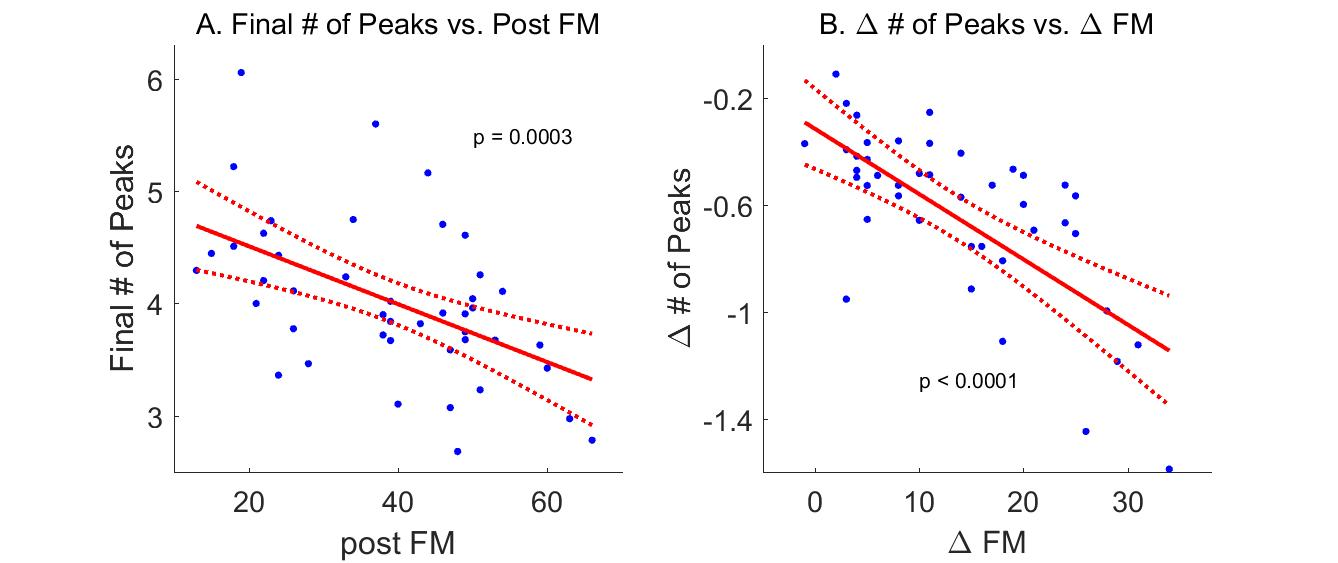
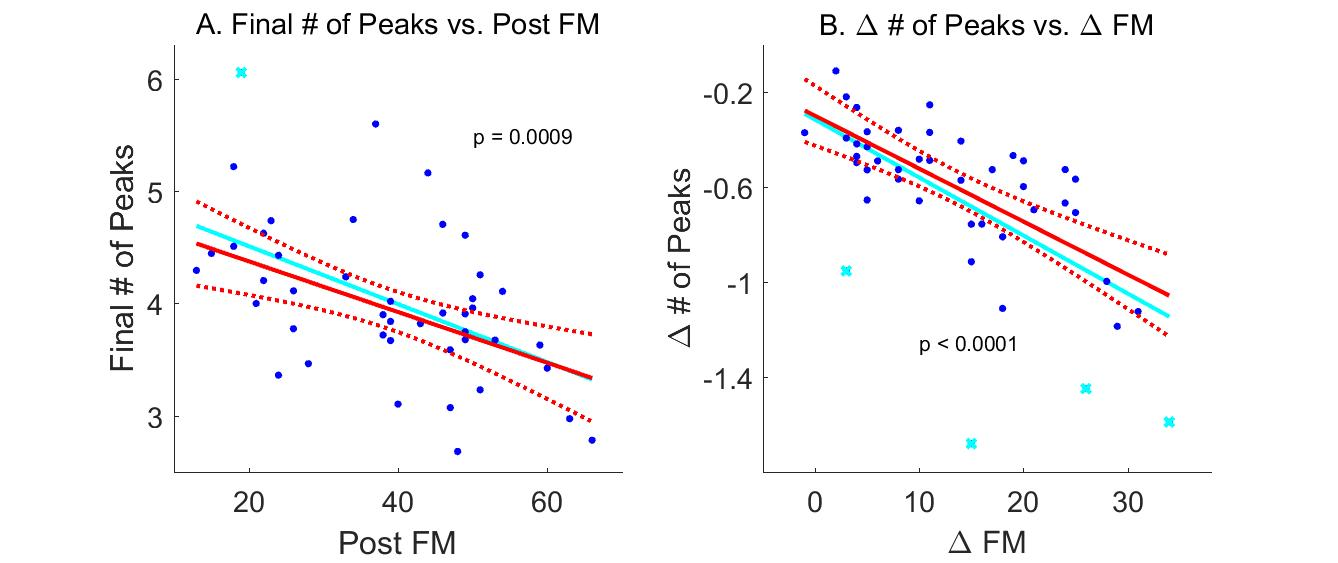
results half done

diff --git a/tex/ArmeoSpring.tex b/tex/ArmeoSpring.tex
@@ -104,6 +104,7 @@ For participants in the stroke group, we consider two exponential components to 
 p = a_1 e^{-b_1 t} + a_2 e^{-b_2 t} + 1
 \end{equation}
 $ a_1, a_2, b_1 $ and $ b_2 $ are constraint to be positive.
+For convenience, we assume $ b_1 > b_2 $.
 
 We fit nonlinear mixed effect models \cite{} to equation \ref{eqn:singleexp} and \ref{eqn:doubleexp} via Matlab 2016a function \textsf{nlmefit}.
 The results of mixed effect model include the fixed effect $ \hat{a} $ and $ \hat{b} $ that represents group average, and the random effect for each participant $ a_s $ and $ b_s, s = 1, ..., N_\text{sb} $.
@@ -140,19 +141,20 @@ The projection of $ \Delta\bm{\theta} $ to the task-irrelevant space is
 	\end{equation}
 where $ \langle,\rangle $ represents inner product.
 In the end, we quantify the task-irrelevant variability by calculating the mean of squared $ \Delta\bm{\theta}_{\text{null}} $
-	\begin{equation}
+	\begin{equation}\label{eqn:nullvar}
 	V_{\text{null}}(t,b) = \mathbb{E}_{t,b} (\Delta\bm{\theta}_{\text{null}}^T\Delta\bm{\theta}_{\text{null}})
 	\end{equation}
 where $ t,b $ index tests and targets (ladybugs). 
 We then average $ V_{\text{null}}(t,b) $ across tests ($ t $) and targets ($ b $) as the measure of task-irrelevant variability of a participant. 
 Because $ V_{\text{null}} $ is similar to the calculation of variance, it has unit of $ \text{deg}^2 $.
+It is on average the summation of variance across all joints.
 
 To obtain variability in the orthogonal (task-relevant) space, we simply replace $ \bm{\xi}_i $ with the basis of the orthogonal space, $ \bm{\psi}_i $, $ i= 1,2 $  :
 	\begin{equation}
 	\Delta\bm{\theta}_{\text{orth}} = \sum_i^m \langle \Delta\bm{\theta}, \bm{\psi}_i \rangle \bm{\psi}_i, m=2
 	\end{equation}
 and the task-relevant space variability is
-	\begin{equation}
+	\begin{equation}\label{eqn:taskvar}
 	V_{\text{orth}}(t,b) = \mathbb{E}_{t,b} (\Delta\bm{\theta}_{\text{orth}}^T\Delta\bm{\theta}_{\text{orth}})
 	\end{equation}
 
@@ -164,8 +166,11 @@ In this study, we only look at the first two synergies.
 On average, the first two synergies account for 83.9\% joint angle variance for control group, 83.1\% for stroke group.
 Joint synergies of healthy participants are quite stable across individuals.
 We calculate the averaged synergies shown in figure \ref{fig:6synergy}-C.
+
 To evaluate the synergy pattern of stroke participant, we use the principal angle \cite{} between subspaces that are spanned by synergies \cite{}.
 Generally, the principal angle between two subspaces is the minimum rotation angle required to rotate one subspace onto the other.
+A principal angle of \ang{0} indicates the same synergy patterns, where as \ang{90} indicates completely different ones.
+Therefore we refer this angle as synergy abnormality.
 We use Matlab 2016a \textsf{subspace} which uses methods in \cite{} to calculate the principal angle. 
 
 For each stroke participant, we investigate the principal angle $ \phi $ between his synergies from every test and the average healthy synergies.
@@ -174,7 +179,11 @@ We fit a linear mixed effect model to $ \phi(t) $ with a fixed effect on the int
 The intercept $ \phi(0) $ tells us how different this participant's synergy pattern is initially different from the control group.
 It is therefore a measure of joint coordination prior training.
 
-To investigate how joint synergies affects task space learning, we correlate $ \phi_0 $ with task space (fast and slow) learning rate.
+To investigate how joint synergies affects task space learning, we correlate $ \phi(0) $ with task space (fast and slow) learning rate.
+
+\textbf{Linear Regression}
+In this study, when doing linear regression, we identify outliers through Cook's Distance \cite{}.
+Instead of removing them, we adopt robust regression method with the bisquare weight function \cite{}.
 
 \outline{2}{Results}
 \section{Results}
@@ -188,12 +197,21 @@ Control subjects show much fewer number of peaks on average (Fig. \ref{fig:3nopf
 Stroke participants show significant improvement (Fig. \ref{fig:3nopfixran}B), although still more than control group at the end of training.
 
 The double exponential mixed effect model (equation \ref{eqn:doubleexp}) gives two learning rates $ b_1 $ and $ b_2 $. 
-We refer the smaller of the two as the slow learning rate, the bigger the fast learning rate.
+We refer the smaller of the two, $ b_2 $ as the slow learning rate, the bigger, $ b_1 $ the fast learning rate.
 Fig. \ref{fig:3nopfixran}C shows examples of individual fitting.
 The slow component, due to small learning rate, is essentially linear; but the fast component usually goes to asymptote during the training.
 
-To interpret these two fitted learning rates, we compare them with Fugul Meyer assessment score \cite{}.
+To interpret these two fitted learning rates, we compare them with Fugul Meyer (FM) assessment score \cite{}.
+The post training number of peaks and post training FM are significantly correlated ($ p = 0.0003 $, Fig. \ref{fig:4slowcomponentisrecovery}A).
+This indicates that the number of peaks is a good measurement of abnormal synergy patterns.
+In addition, the change of number of peaks before and after training due to the slow process (term $ a_2e^{-b_2t} $ in Eqn. \ref{eqn:doubleexp}), correlates significantly ($ p<0.0001 $) with the change of FM (Fig. \ref{fig:4slowcomponentisrecovery}B).
+This further indicates that the slow learning process, rather than the fast one, reflects a recovery of synergy patterns.
 
+\textbf{Joint Space Variability}
+Both control group and stroke group display much larger task-irrelevant variability than task-relevant variability.
+For example, for the control group, the task-irrelevant variability on average is $ \ang{18.3} \pm \ang{19.4} $ (measured by standard deviation, $ \sqrt{V_\text{null}} $); whereas the task-relevant variability ($ \sqrt{V_\text{orth}} $) on average is $ \ang{3.1} \pm \ang{2.9} $
+
+Task-irrelevant variability positively correlates with the learning rate $ b_1 $ (see Eqn. \ref{eqn:doubleexp}).
 
 
 \outline{2}{Discussion}
